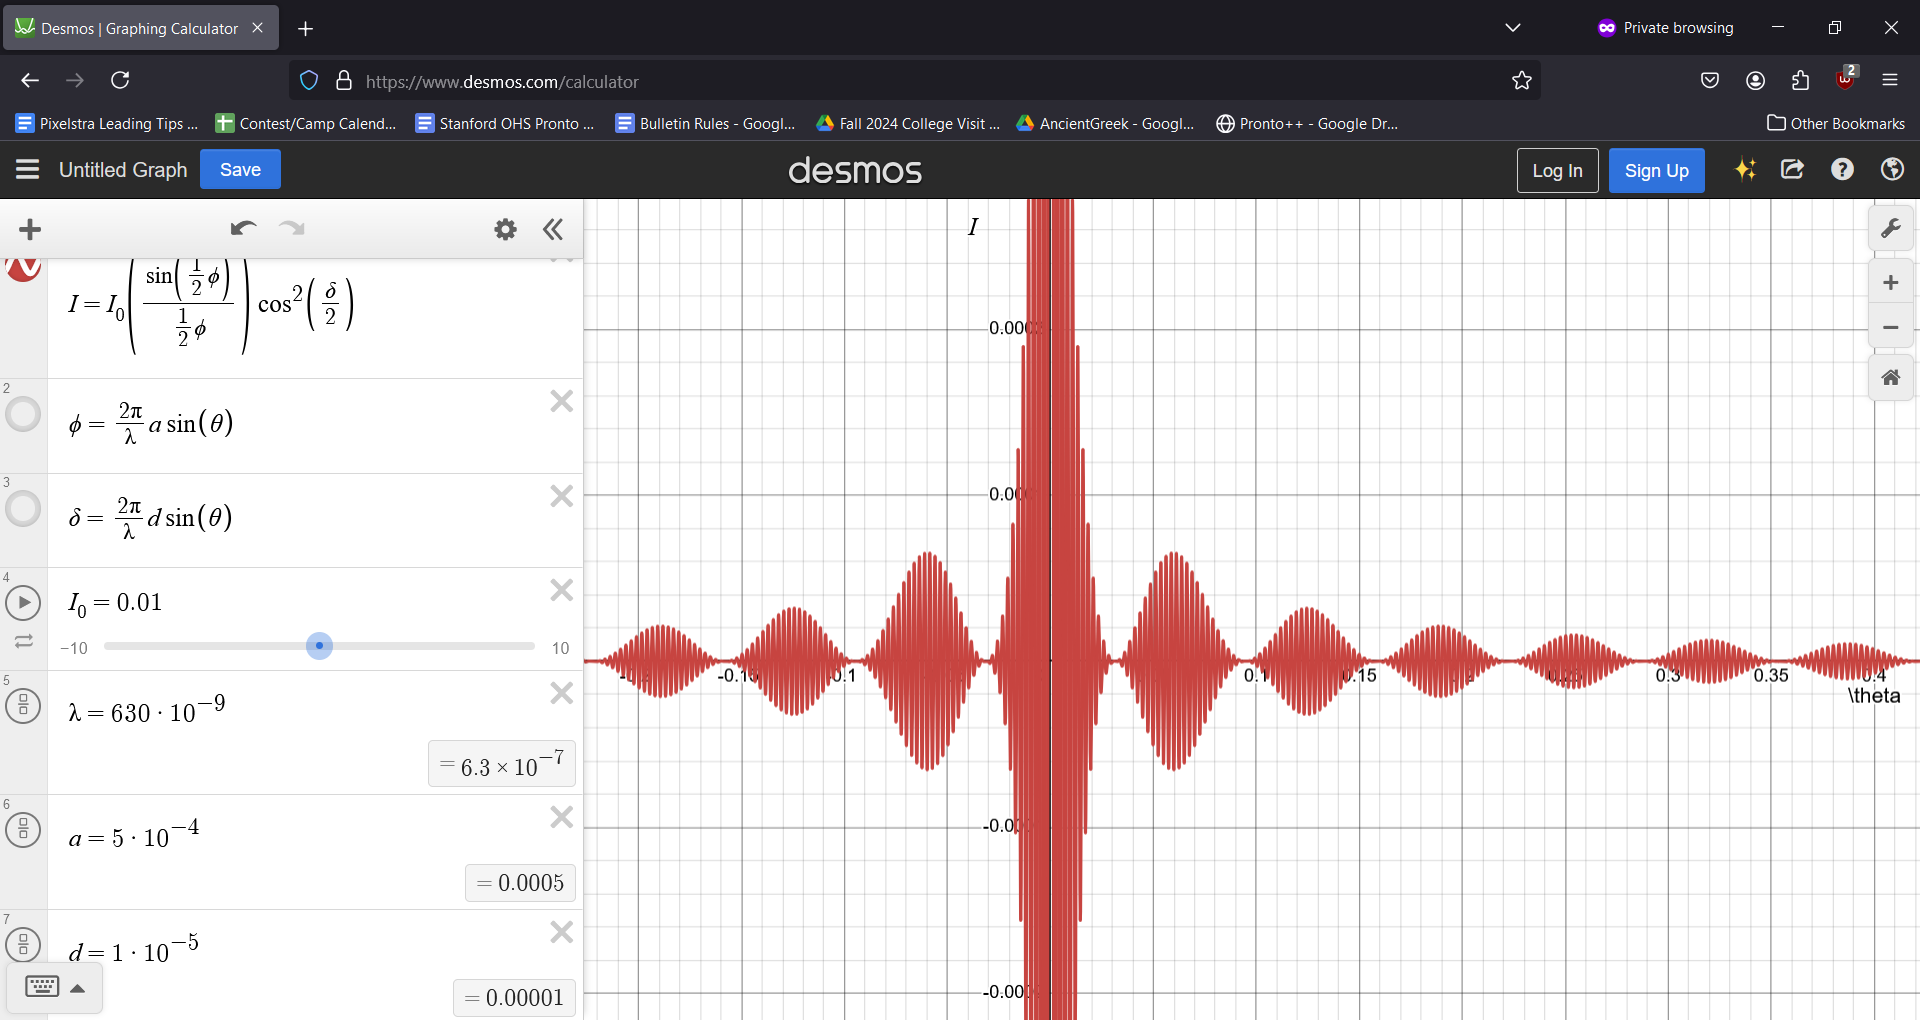
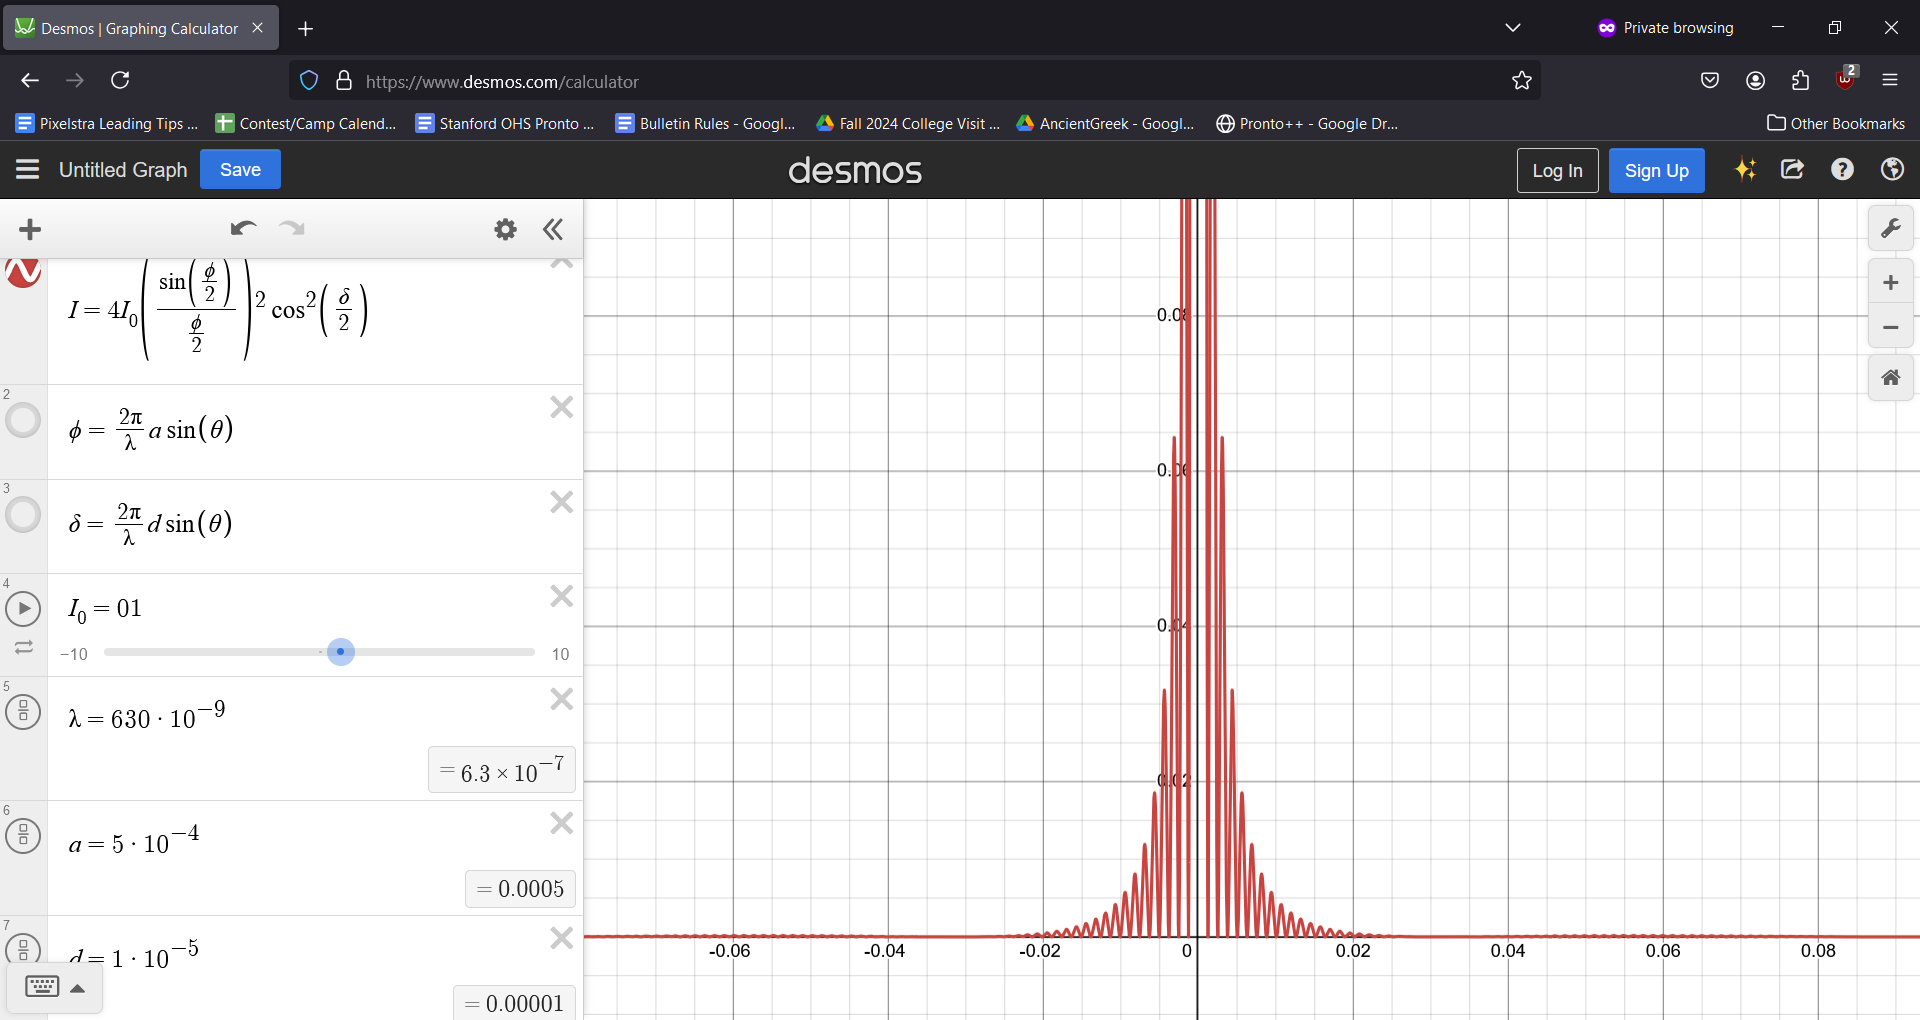
fix a few mistakes in the graphs

diff --git a/data/activityPosts/20241223_Interference_Bands.md b/data/activityPosts/20241223_Interference_Bands.md
@@ -1,3 +1,5 @@
+**Edited 12/24/2024:** Fixed a few mistakes in my graphs.
+
 It's basically a double slit interference pattern. After finals week I had more time on my hands, so I wanted to be productive instead of playing games all day.
 
 
@@ -82,14 +84,22 @@ $$I = 4I_0\left(\frac{\sin(\frac{1}{2}\phi)}{\frac{1}{2}\phi}\right)^2\cos^2(\fr
 Drawing this on Desmos (with a small $I_0$ for visibility):
 <figure>
     <img style="width:600px" src="/images/activity/20241223_Interference_Bands_4.png">
-    <figcaption>This would be the pattern of the larger bands.</figcaption>
+    <figcaption>This would be the pattern of the larger bands.<br>The large spike in the center corresponds to max intensity.</figcaption>
+</figure>
+<br>
+<br>
+
+With a logarithmic y scale, other larger bands can be seen on the sides:
+<figure>
+    <img style="width:600px" src="/images/activity/20241223_Interference_Bands_5.png">
+    <figcaption></figcaption>
 </figure>
 <br>
 <br>
 
 Zooming in, smaller bands can be seen within each larger band:
 <figure>
-    <img style="width:600px" src="/images/activity/20241223_Interference_Bands_5.png">
+    <img style="width:600px" src="/images/activity/20241223_Interference_Bands_8.png">
     <figcaption>Existence of small bands</figcaption>
 </figure>
 <br>
